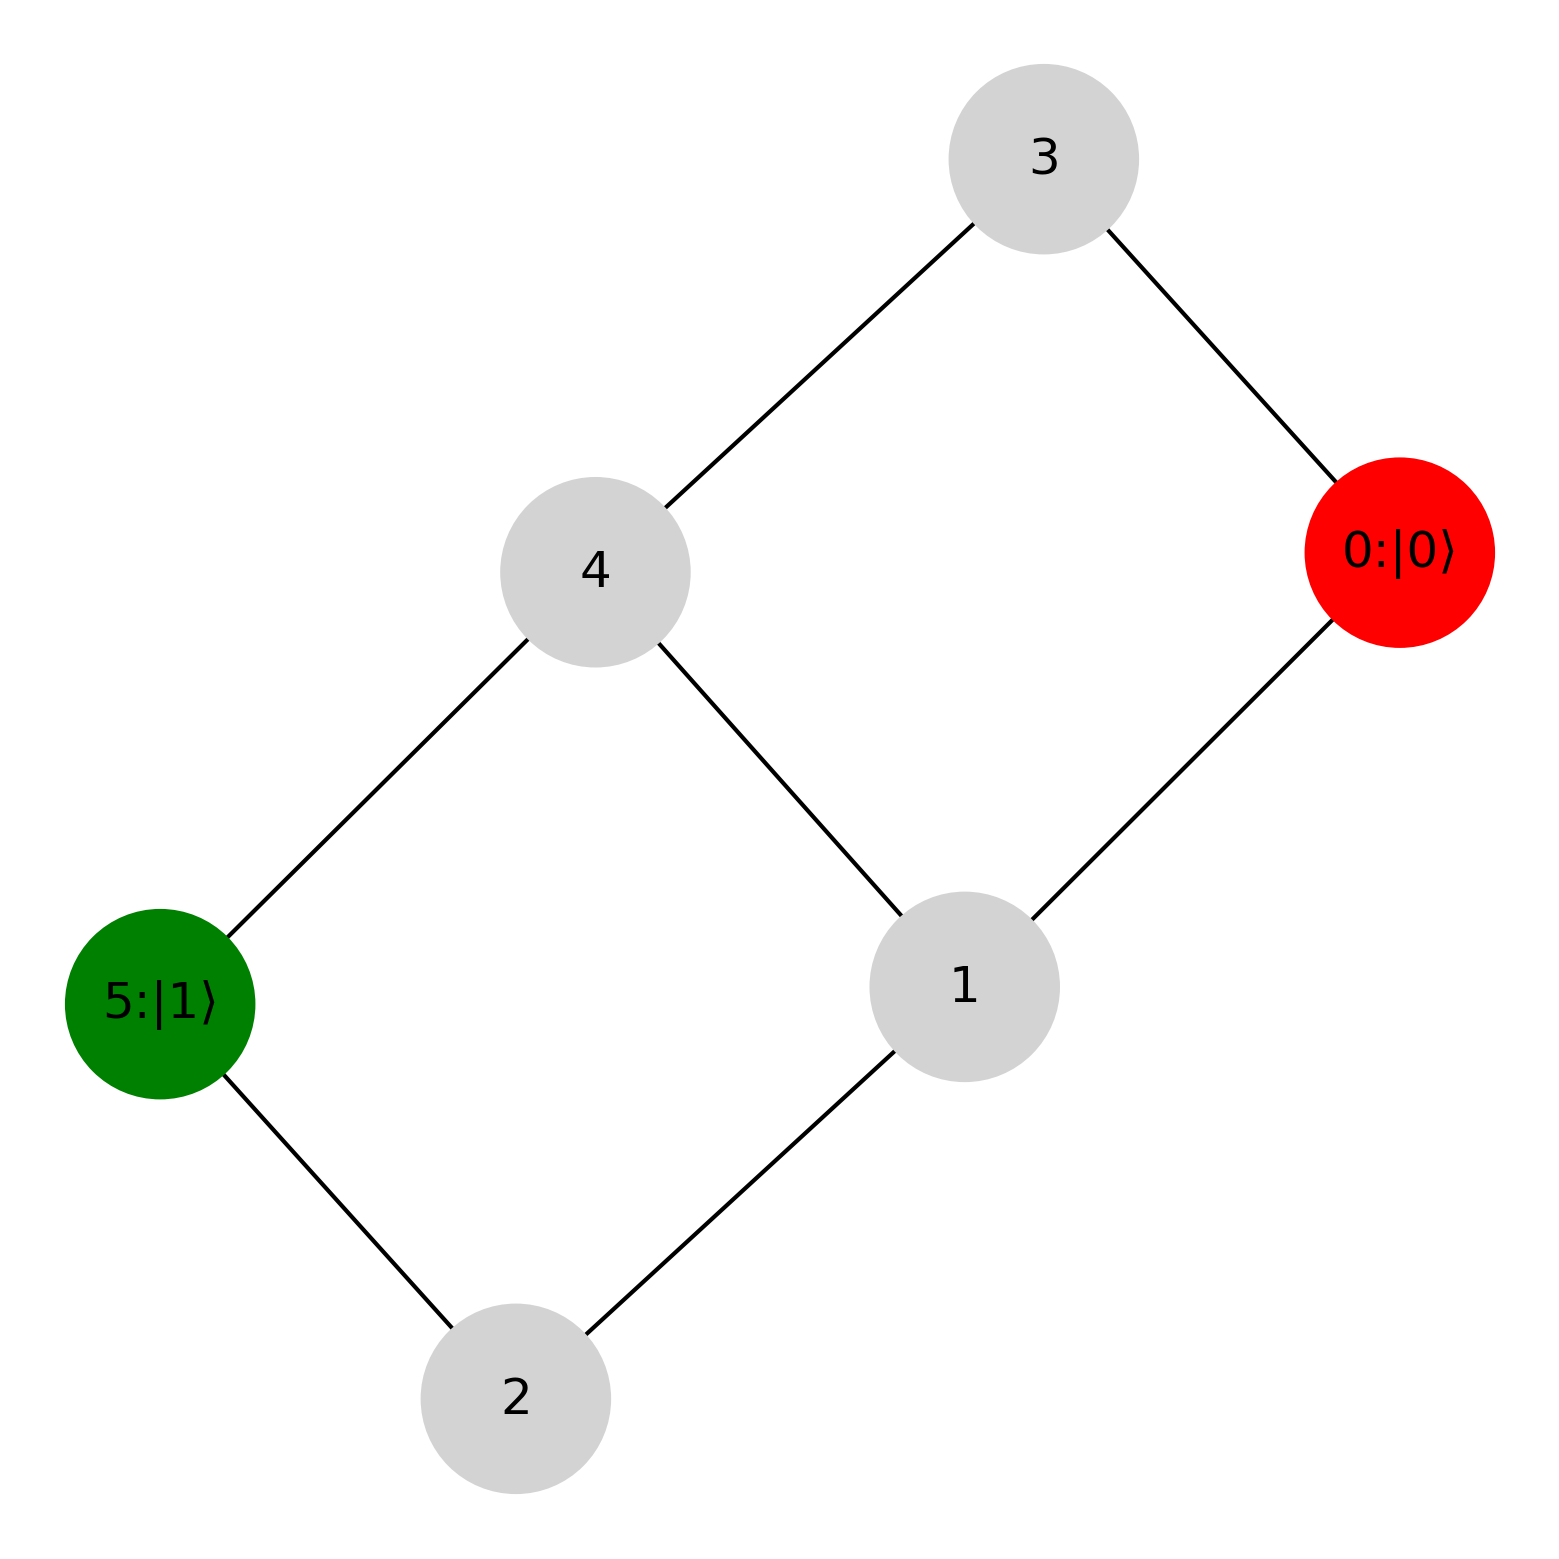
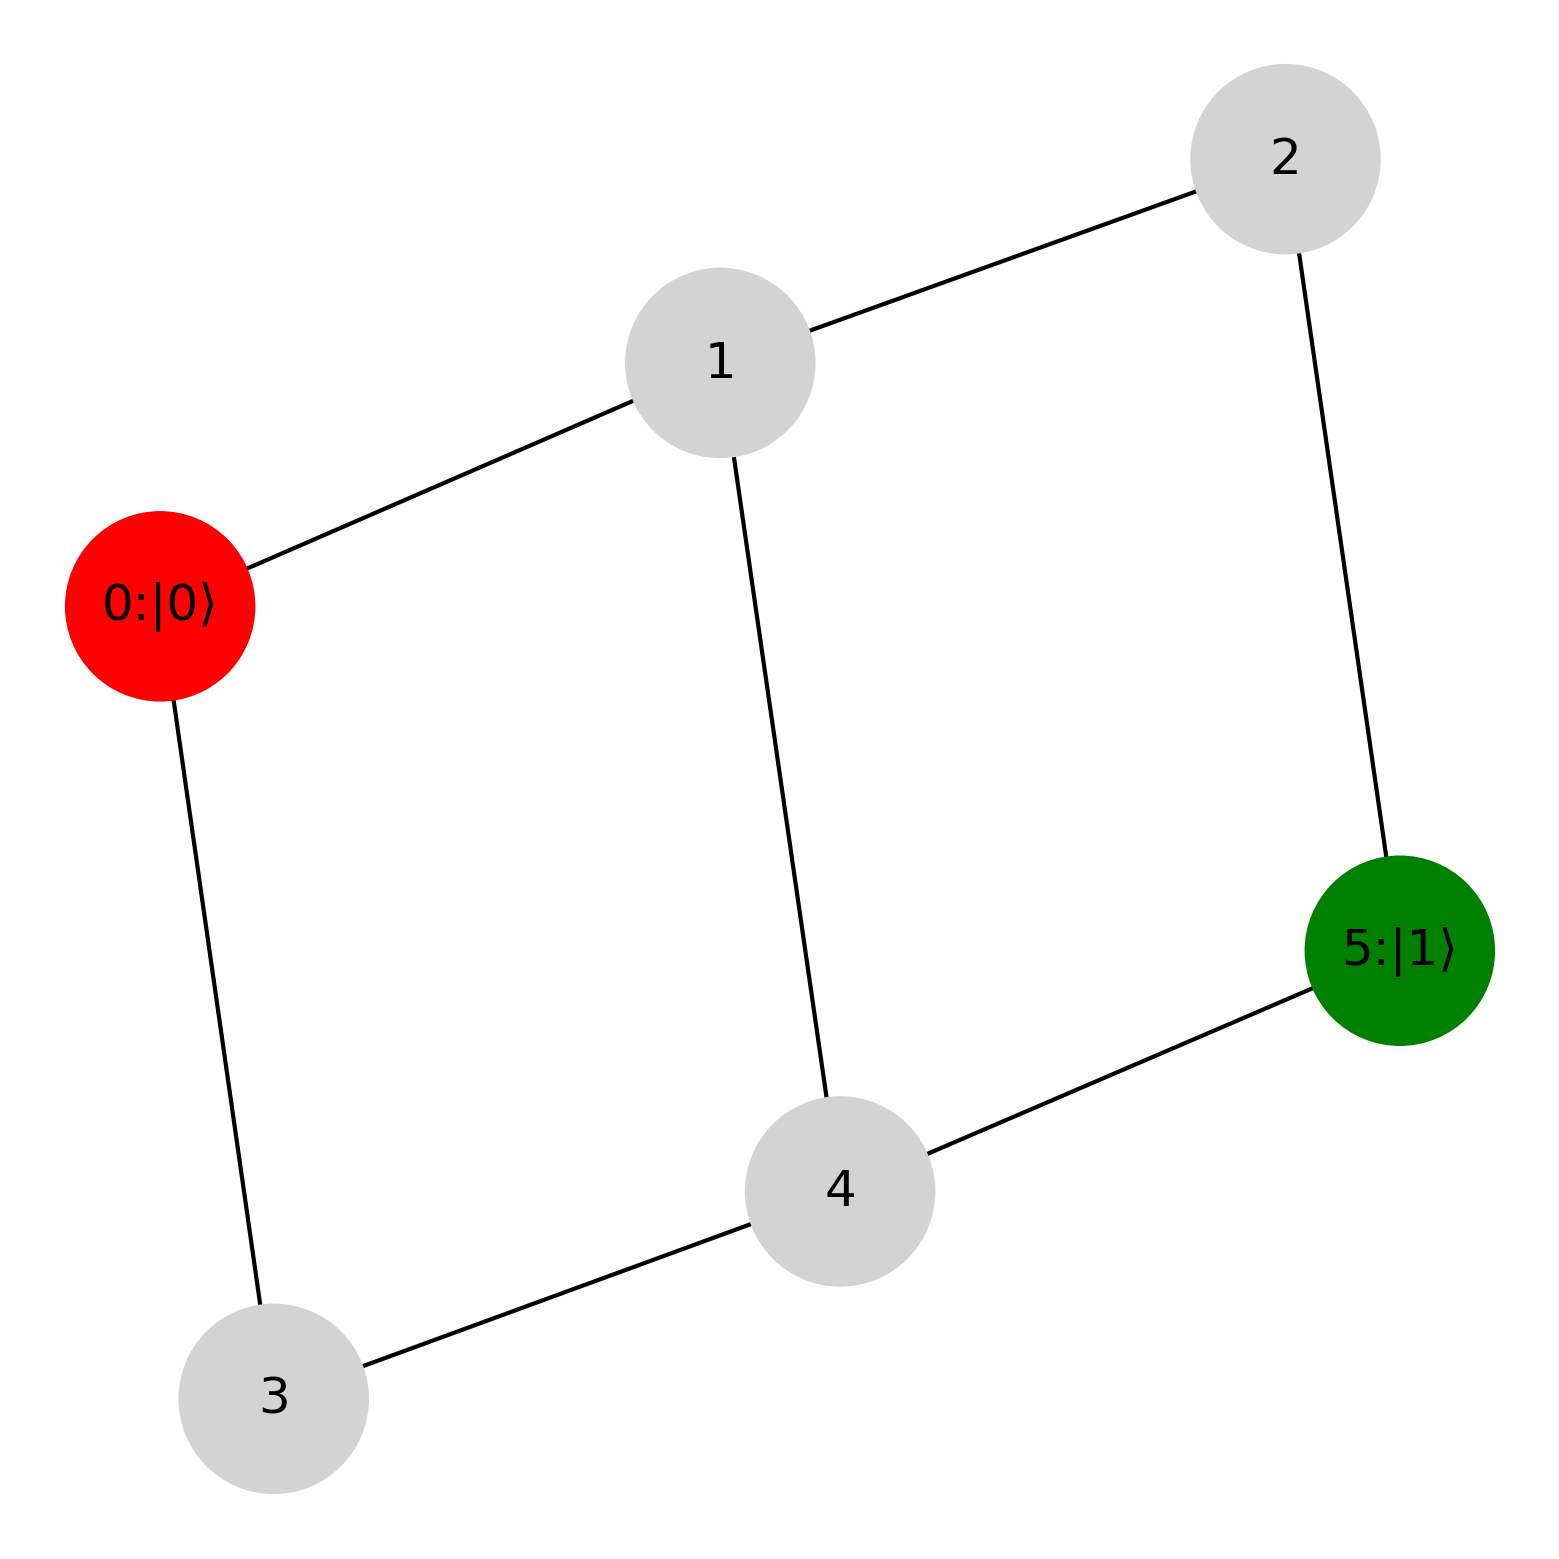
Add bfs traversal functionality

diff --git a/vcgc/network.py b/vcgc/network.py
@@ -3,6 +3,9 @@
 import networkx as nx
 from matplotlib import pyplot as plt
 from vcgc.dimacs import *
+import random
+from typing import Optional
+from networkx import bfs_tree
 
 class VCPNetwork:
     edges = []
@@ -66,36 +69,215 @@ class VCPNetwork:
         
         return self.graph
     
-    def draw_colored_graph(self, figsize: tuple =(5, 5), node_size: int =2000) -> None:
+    def draw_graph(self, pos: Optional[dict] = None, name: Optional[str] = None, figsize: tuple =(5, 5), node_size: int = 2000) -> None:
         """
         Draw a graph with nodes colored according to their color attribute.
         Node labels will display both node number and color index in bra-ket notation.
         
         Parameters:
         -----------
-        G : networkx.Graph
+        self : networkx.Graph
             The graph to draw (should have 'color' attributes on nodes)
+        pos : dict, optional
+            A dictionary with nodes as keys and positions as values (if None, uses spring layout)
+        name : str, optional
+            Name of the file to save the graph image (default is "graph.png")
         figsize : tuple, optional
             Figure size as (width, height) in inches
         node_size : int, optional
             Size of the nodes in the visualization
         """
-        # Extract node colors for drawing
-        node_colors = [self.graph.nodes[node]['color'] for node in self.graph.nodes()]
+        draw_colored_graph(self.graph, pos=pos, figsize=figsize, node_size=node_size)
+    
+    def bfs_traversal(self, root: int = 0) -> nx.Graph:
+        """
+        Generate a BFS tree from the graph starting at the specified root node.
         
-        # Create custom labels in the format "node:|color⟩"
-        custom_labels = {}
-        for node in self.graph.nodes():
-            # Get the color index, default to 'x' if not found or -1
-            color_idx = self.graph.nodes[node].get('color_idx', -1)
-            if color_idx == -1:
-                label = f"{node}"
-            else:
-                label = f"{node}:|{color_idx}⟩"
-            custom_labels[node] = label
+        Parameters:
+        -----------
+        root : int
+            The root node to start the BFS traversal
         
-        # Draw the graph with node colors and custom labels
-        plt.figure(figsize=figsize)
-        nx.draw(self.graph, labels=custom_labels, node_color=node_colors, node_size=node_size)
-        plt.savefig('graph.png', dpi=300, bbox_inches='tight')
-        plt.show()
+        Returns:
+        --------
+        bfs_tree : networkx.Graph
+            The BFS tree generated from the graph
+        """
+        bfs_traversal = bfs_tree(self.graph, source=root)
+        
+        # Copy node attributes from the original graph to the BFS tree
+        for node in bfs_traversal.nodes():
+            if node in self.graph.nodes():
+                bfs_traversal.nodes[node].update(self.graph.nodes[node])
+        
+        return bfs_traversal
+    
+    def draw_bfs_tree(self, root: int = 0, figsize: tuple = (5, 5), node_size: int = 2000) -> None:
+        """
+        Draw the BFS tree starting from the specified root node.
+        
+        Parameters:
+        -----------
+        root : int
+            The root node to start the BFS traversal
+        figsize : tuple, optional
+            Figure size as (width, height) in inches
+        node_size : int, optional
+            Size of the nodes in the visualization
+        """
+        bfs_tree = self.bfs_traversal(root)
+        pos = hierarchy_pos(bfs_tree, root=0, width=1.0, vert_gap=0.2, leaf_vs_root_factor=0.5)
+        draw_colored_graph(bfs_tree, name = "bfs_tree.png", pos=pos, figsize=figsize, node_size=node_size)
+
+def hierarchy_pos(G: nx.Graph, root: Optional[int] = None, width: float = 1., vert_gap :float = 0.2, vert_loc : int = 0, leaf_vs_root_factor : float = 0.5):
+
+    '''
+    If the graph is a tree this will return the positions to plot this in a 
+    hierarchical layout.
+    
+    Based on Joel's answer at https://stackoverflow.com/a/29597209/2966723,
+    but with some modifications.  
+
+    We include this because it may be useful for plotting transmission trees,
+    and there is currently no networkx equivalent (though it may be coming soon).
+    
+    There are two basic approaches we think of to allocate the horizontal 
+    location of a node.  
+    
+    - Top down: we allocate horizontal space to a node.  Then its ``k`` 
+      descendants split up that horizontal space equally.  This tends to result
+      in overlapping nodes when some have many descendants.
+    - Bottom up: we allocate horizontal space to each leaf node.  A node at a 
+      higher level gets the entire space allocated to its descendant leaves.
+      Based on this, leaf nodes at higher levels get the same space as leaf
+      nodes very deep in the tree.  
+      
+    We use use both of these approaches simultaneously with ``leaf_vs_root_factor`` 
+    determining how much of the horizontal space is based on the bottom up 
+    or top down approaches.  ``0`` gives pure bottom up, while 1 gives pure top
+    down.   
+    
+    
+    :Arguments: 
+    
+    **G** the graph (must be a tree)
+
+    **root** the root node of the tree 
+    - if the tree is directed and this is not given, the root will be found and used
+    - if the tree is directed and this is given, then the positions will be 
+      just for the descendants of this node.
+    - if the tree is undirected and not given, then a random choice will be used.
+
+    **width** horizontal space allocated for this branch - avoids overlap with other branches
+
+    **vert_gap** gap between levels of hierarchy
+
+    **vert_loc** vertical location of root
+
+    **leaf_vs_root_factor**
+
+    xcenter: horizontal location of root
+    '''
+    if not nx.is_tree(G):
+        raise TypeError('cannot use hierarchy_pos on a graph that is not a tree')
+
+    if root is None:
+        if isinstance(G, nx.DiGraph):
+            root = next(iter(nx.topological_sort(G)))  #allows back compatibility with nx version 1.11
+        else:
+            root = random.choice(list(G.nodes))
+
+    def _hierarchy_pos(G, root, leftmost, width, leafdx = 0.2, vert_gap = 0.2, vert_loc = 0, 
+                    xcenter = 0.5, rootpos = None, 
+                    leafpos = None, parent = None):
+        '''
+        see hierarchy_pos docstring for most arguments
+
+        pos: a dict saying where all nodes go if they have been assigned
+        parent: parent of this branch. - only affects it if non-directed
+
+        '''
+
+        if rootpos is None:
+            rootpos = {root:(xcenter,vert_loc)}
+        else:
+            rootpos[root] = (xcenter, vert_loc)
+        if leafpos is None:
+            leafpos = {}
+        children = list(G.neighbors(root))
+        leaf_count = 0
+        if not isinstance(G, nx.DiGraph) and parent is not None:
+            children.remove(parent)  
+        if len(children)!=0:
+            rootdx = width/len(children)
+            nextx = xcenter - width/2 - rootdx/2
+            for child in children:
+                nextx += rootdx
+                rootpos, leafpos, newleaves = _hierarchy_pos(G,child, leftmost+leaf_count*leafdx, 
+                                    width=rootdx, leafdx=leafdx,
+                                    vert_gap = vert_gap, vert_loc = vert_loc-vert_gap, 
+                                    xcenter=nextx, rootpos=rootpos, leafpos=leafpos, parent = root)
+                leaf_count += newleaves
+
+            leftmostchild = min((x for x,y in [leafpos[child] for child in children]))
+            rightmostchild = max((x for x,y in [leafpos[child] for child in children]))
+            leafpos[root] = ((leftmostchild+rightmostchild)/2, vert_loc)
+        else:
+            leaf_count = 1
+            leafpos[root]  = (leftmost, vert_loc)
+        return rootpos, leafpos, leaf_count
+
+    xcenter = width/2.
+    if isinstance(G, nx.DiGraph):
+        leafcount = len([node for node in nx.descendants(G, root) if G.out_degree(node)==0])
+    elif isinstance(G, nx.Graph):
+        leafcount = len([node for node in nx.node_connected_component(G, root) if G.degree(node)==1 and node != root])
+    rootpos, leafpos, leaf_count = _hierarchy_pos(G, root, 0, width, 
+                                                    leafdx=width*1./leafcount, 
+                                                    vert_gap=vert_gap, 
+                                                    vert_loc = vert_loc, 
+                                                    xcenter = xcenter)
+    pos = {}
+    for node in rootpos:
+        pos[node] = (leaf_vs_root_factor*leafpos[node][0] + (1-leaf_vs_root_factor)*rootpos[node][0], leafpos[node][1]) 
+    xmax = max(x for x,y in pos.values())
+    for node in pos:
+        pos[node]= (pos[node][0]*width/xmax, pos[node][1])
+    return pos
+
+def draw_colored_graph(G: nx.Graph, name: str = "graph.png", pos: Optional[dict] = None, figsize: tuple =(5, 5), node_size: int = 2000) -> None:
+    """
+    Draw a graph with nodes colored according to their color attribute.
+    Node labels will display both node number and color index in bra-ket notation.
+    
+    Parameters:
+    -----------
+    G : networkx.Graph
+        The graph to draw (should have 'color' attributes on nodes)
+    pos : dict, optional
+        A dictionary with nodes as keys and positions as values (if None, uses spring layout)
+    name : str, optional
+        Name of the file to save the graph image (default is "graph.png")
+    figsize : tuple, optional
+        Figure size as (width, height) in inches
+    node_size : int, optional
+        Size of the nodes in the visualization
+    """
+    # Extract node colors for drawing
+    node_colors = [G.nodes[node]['color'] for node in G.nodes()]
+    
+    # Create custom labels in the format "node:|color⟩"
+    custom_labels = {}
+    for node in G.nodes():
+        # Get the color index, default to 'x' if not found or -1
+        color_idx = G.nodes[node].get('color_idx', -1)
+        if color_idx == -1:
+            label = f"{node}"
+        else:
+            label = f"{node}:|{color_idx}⟩"
+        custom_labels[node] = label
+    
+    # Draw the graph with node colors and custom labels
+    plt.figure(figsize=figsize)
+    nx.draw(G, pos = pos, labels=custom_labels, node_color=node_colors, node_size=node_size)
+    plt.savefig(name, dpi=300, bbox_inches='tight')

diff --git a/playground.py b/playground.py
@@ -5,9 +5,9 @@ import networkx as nx
 
 G = VCPNetwork()
 G.read_dimacs("dimacs/g002.dimacs")
-G.draw_colored_graph()
+G.draw_graph()
 T = bfs_tree(G.graph, source=0)
 plt.figure(figsize=[10,10])
 nx.draw(T)
 plt.savefig('tree.png', dpi=300, bbox_inches='tight')
-print(T.edges())
+G.draw_bfs_tree()
